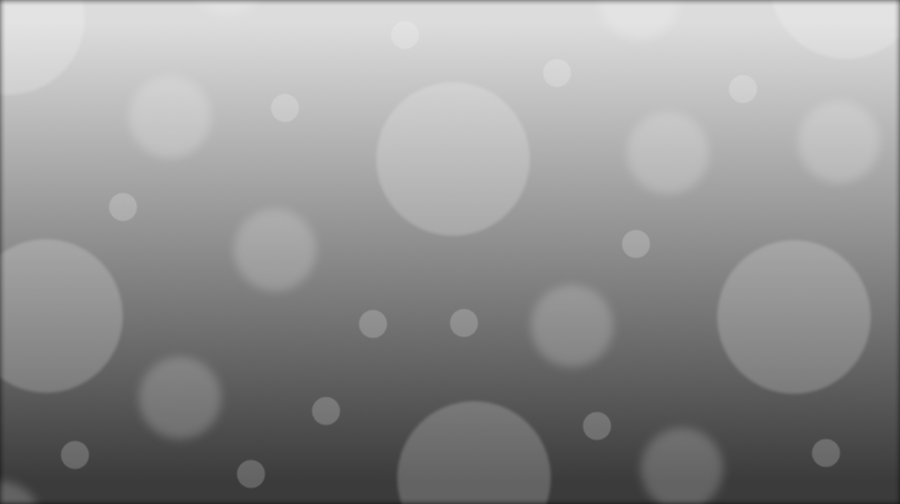
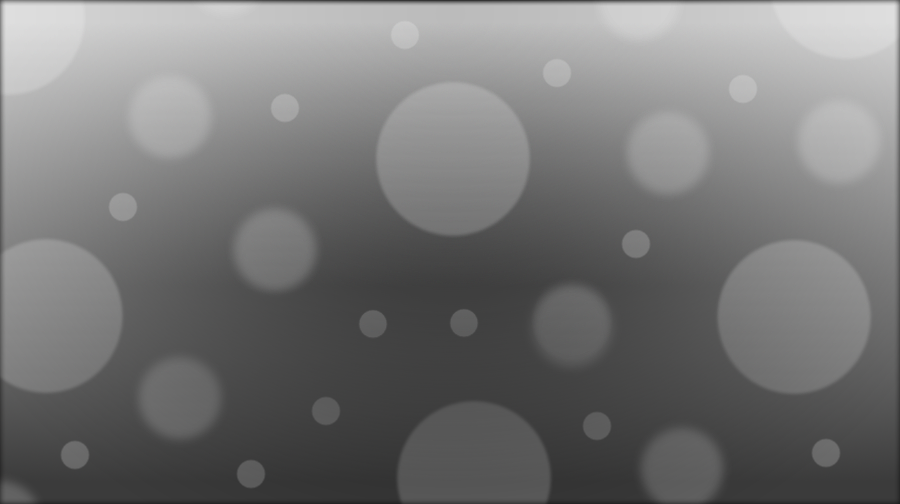
More slight menu tweaks

diff --git a/src/com/rokru/experiment_x/gui/MainMenu.java b/src/com/rokru/experiment_x/gui/MainMenu.java
@@ -103,8 +103,7 @@ public class MainMenu extends JPanel implements Runnable{
 
 	public void paintComponent(Graphics g) {
 		super.paintComponent(g);
-		BufferedImage result = new BufferedImage(getWidth(), getHeight(), BufferedImage.TYPE_INT_ARGB);
-	    Graphics2D gbi = result.createGraphics();
+	    Graphics2D gbi = (Graphics2D)g;
 	    BufferedImage x = null;
 	    try {
 	        x = ImageIO.read(getClass().getResource("/images/main_menu_bg.png"));
@@ -113,10 +112,8 @@ public class MainMenu extends JPanel implements Runnable{
 	    gbi.drawImage(x, 0, 0, this);
 	    gbi.setColor(new Color((float)currentMenuColor.getRed()/255,
 	    		(float)currentMenuColor.getGreen()/255,
-	    		(float)currentMenuColor.getBlue()/255, 0.8f));
-	    gbi.setComposite(AlphaComposite.getInstance(AlphaComposite.SRC_ATOP, 0.8f));
+	    		(float)currentMenuColor.getBlue()/255, 0.65f));
 	    gbi.fillRect(0, 0, getWidth(), getHeight());
-	    g.drawImage(result, 0, 0, this);
 		g.drawImage(new ImageIcon(this.getClass().getResource("/images/ex_x_logo.png")).getImage(), getWidth()/2 - 600/2, 75, 600, 200, null);
 	}
 
